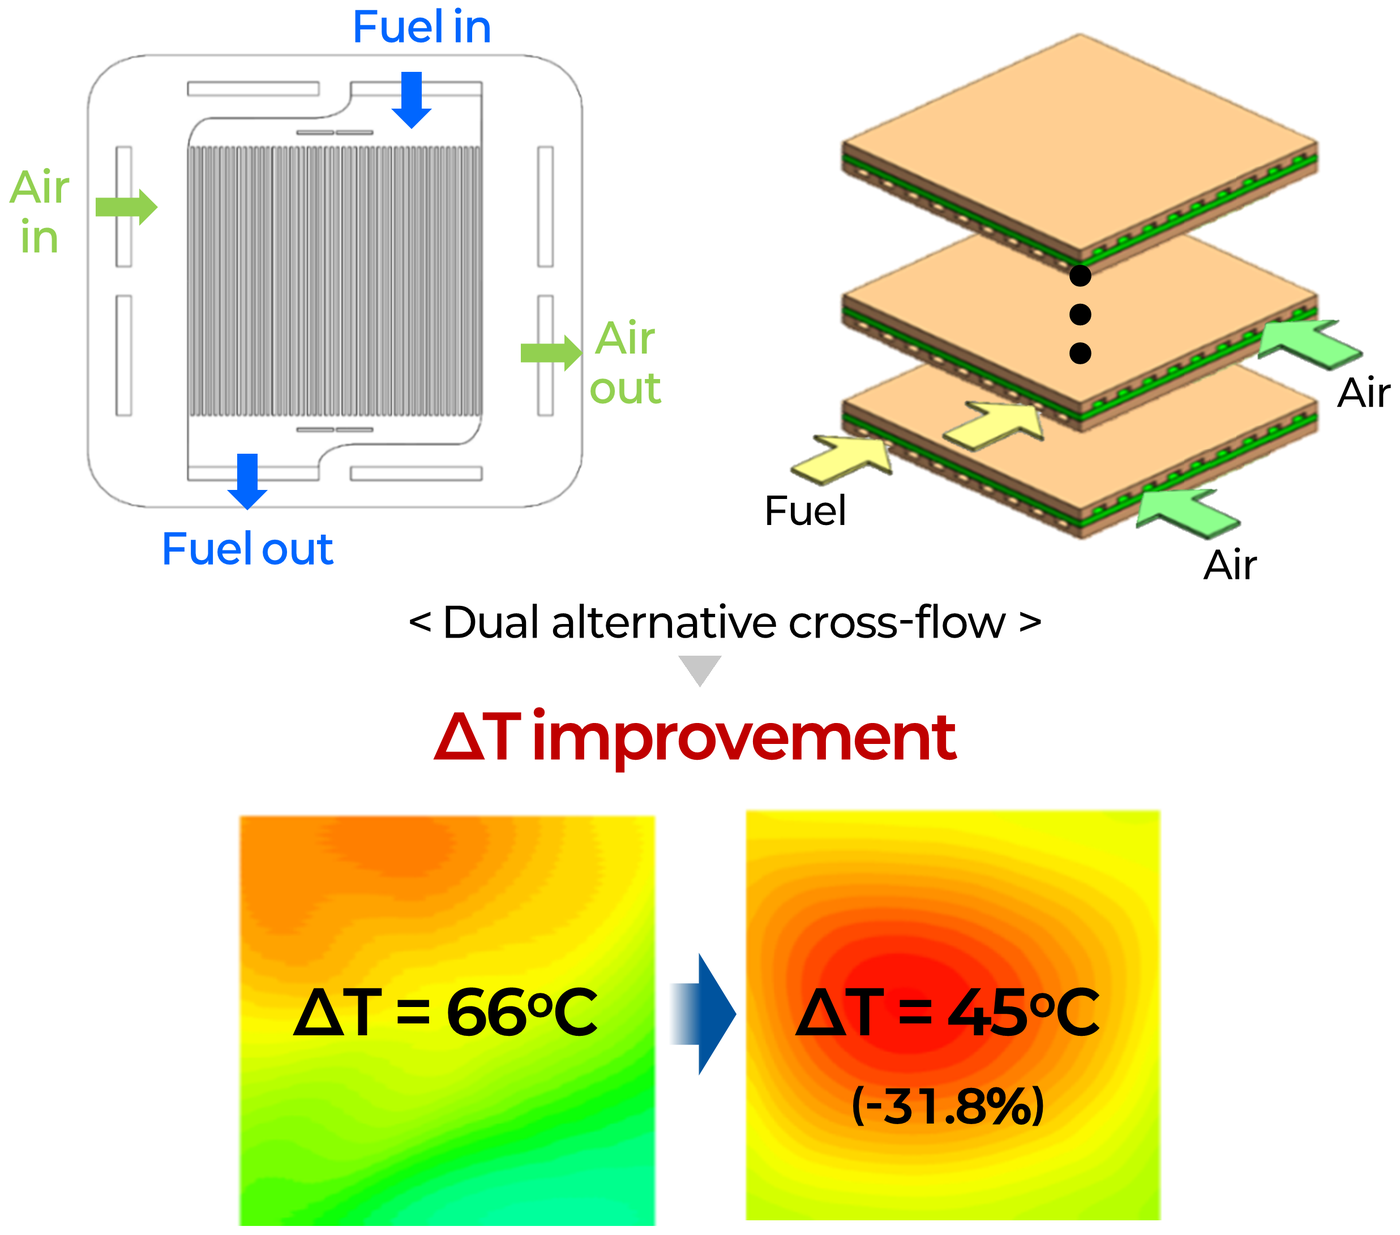
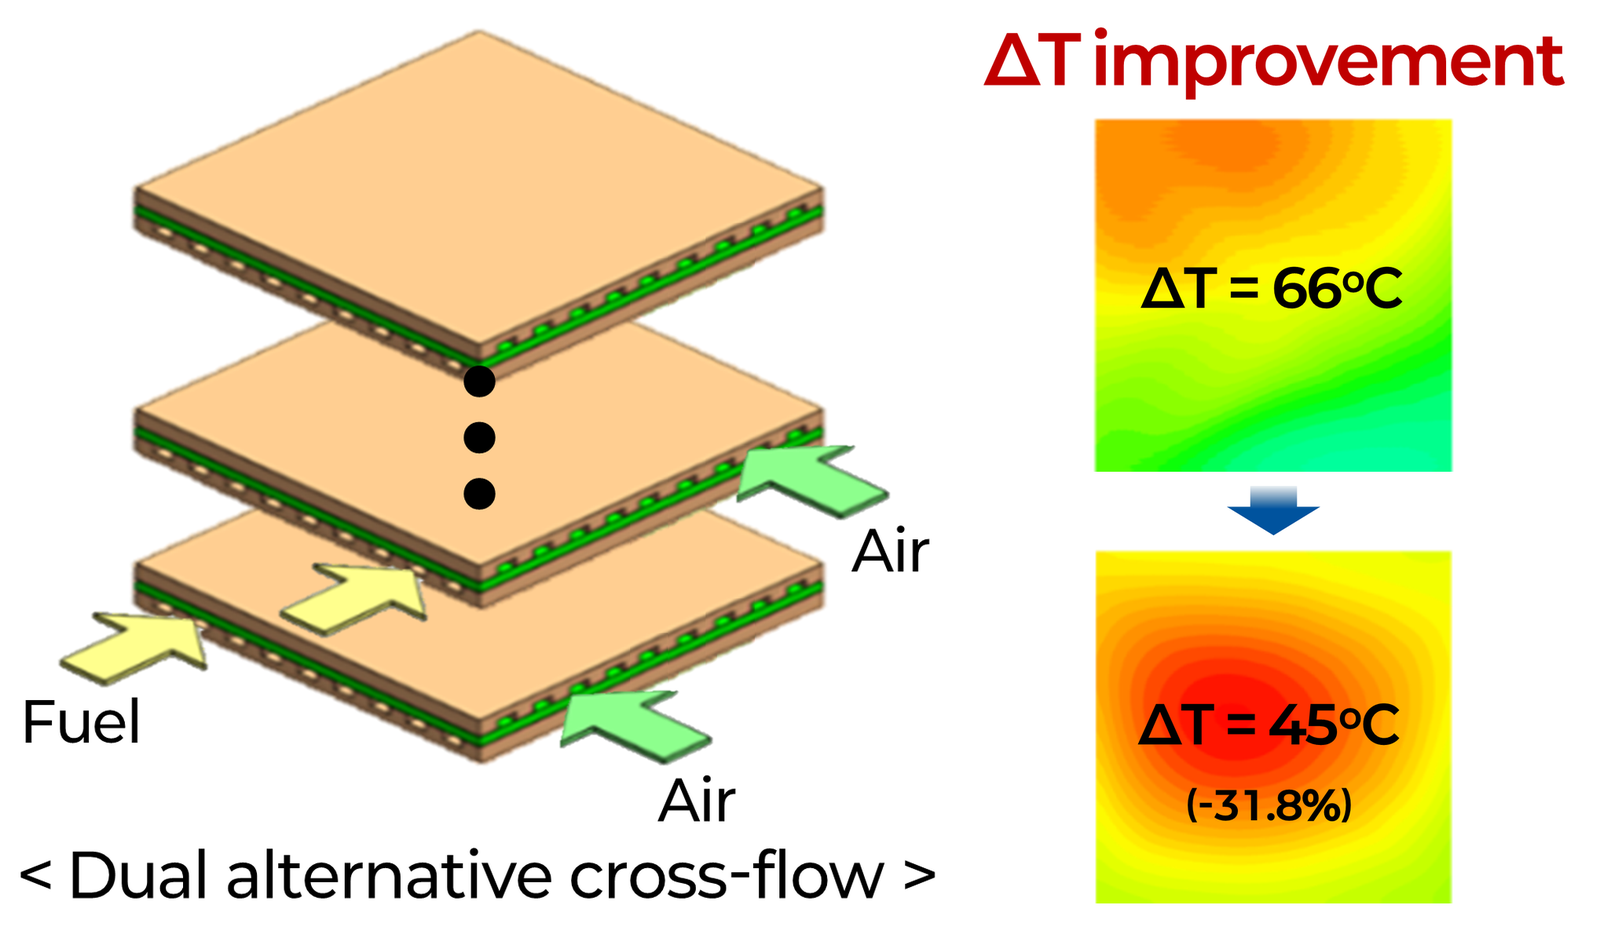
Highlights 1-2: larger side-by-side layout for design/dT; stack components exploded view

diff --git a/research.html b/research.html
@@ -125,12 +125,12 @@
 </div>
 <div class="hl-grid">
 <div class="hl">
-<div class="img"><img alt="Dual alternative cross-flow stack design and the reduced stack temperature difference (66 -&gt; 45 degC)" src="assets/img/h_stack_design_dT.png"/></div>
+<div class="img"><img alt="Dual alternative cross-flow stacking and the reduced stack temperature difference (66 -&gt; 45 degC)" src="assets/img/h_stack_design_dT.png"/></div>
 <div class="cap"><b>NH<sub>3</sub>-SOFC stack design optimization</b>
 <p>A dual alternative cross-flow design cut the temperature difference inside the stack from 66 °C to 45 °C (-31.8%). (Energy Conversion and Management, 2023)</p></div>
 </div>
 <div class="hl">
-<div class="img"><img alt="Stacking problems (cell alignment, complex procedure) and the solution with an aligning guide" src="assets/img/h_stacking_solution.png"/></div>
+<div class="img"><img alt="Exploded view of SOFC stack repeating-unit components (separator, sealant, current collecting layers, cell)" src="assets/img/h_stack_components.png"/></div>
 <div class="cap"><b>Improved stacking technology</b>
 <p>Better bipolar plate roughness, sealing, and an alignment guide reduced the cell-to-cell voltage deviation of a 5-cell stack from 0.36 V to 0.045 V and raised power by 23.3%.</p></div>
 </div>

diff --git a/research-ko.html b/research-ko.html
@@ -125,12 +125,12 @@
 </div>
 <div class="hl-grid">
 <div class="hl">
-<div class="img"><img alt="Dual alternative cross-flow 스택 설계와 스택 내부 온도차 개선(66 -&gt; 45 degC)" src="assets/img/h_stack_design_dT.png"/></div>
+<div class="img"><img alt="Dual alternative cross-flow 적층 구조와 스택 내부 온도차 개선(66 -&gt; 45 degC)" src="assets/img/h_stack_design_dT.png"/></div>
 <div class="cap"><b>NH<sub>3</sub>-SOFC 스택 설계 최적화</b>
 <p>Dual alternative cross-flow 설계로 스택 내부 온도차를 66 °C에서 45 °C로 31.8% 줄였습니다. (Energy Conversion and Management, 2023)</p></div>
 </div>
 <div class="hl">
-<div class="img"><img alt="적층 문제(셀 정렬, 복잡한 공정)와 정렬 가이드를 적용한 해결책" src="assets/img/h_stacking_solution.png"/></div>
+<div class="img"><img alt="SOFC 스택 반복 단위 구성품 분해도(분리판, 실링, 집전층, 셀)" src="assets/img/h_stack_components.png"/></div>
 <div class="cap"><b>스택 적층 기술 개선</b>
 <p>분리판 표면 거칠기, 실링, 정렬 가이드를 개선해 5셀 스택의 셀 간 전압 편차를 0.36 V에서 0.045 V로 줄이고 출력을 23.3% 높였습니다.</p></div>
 </div>
